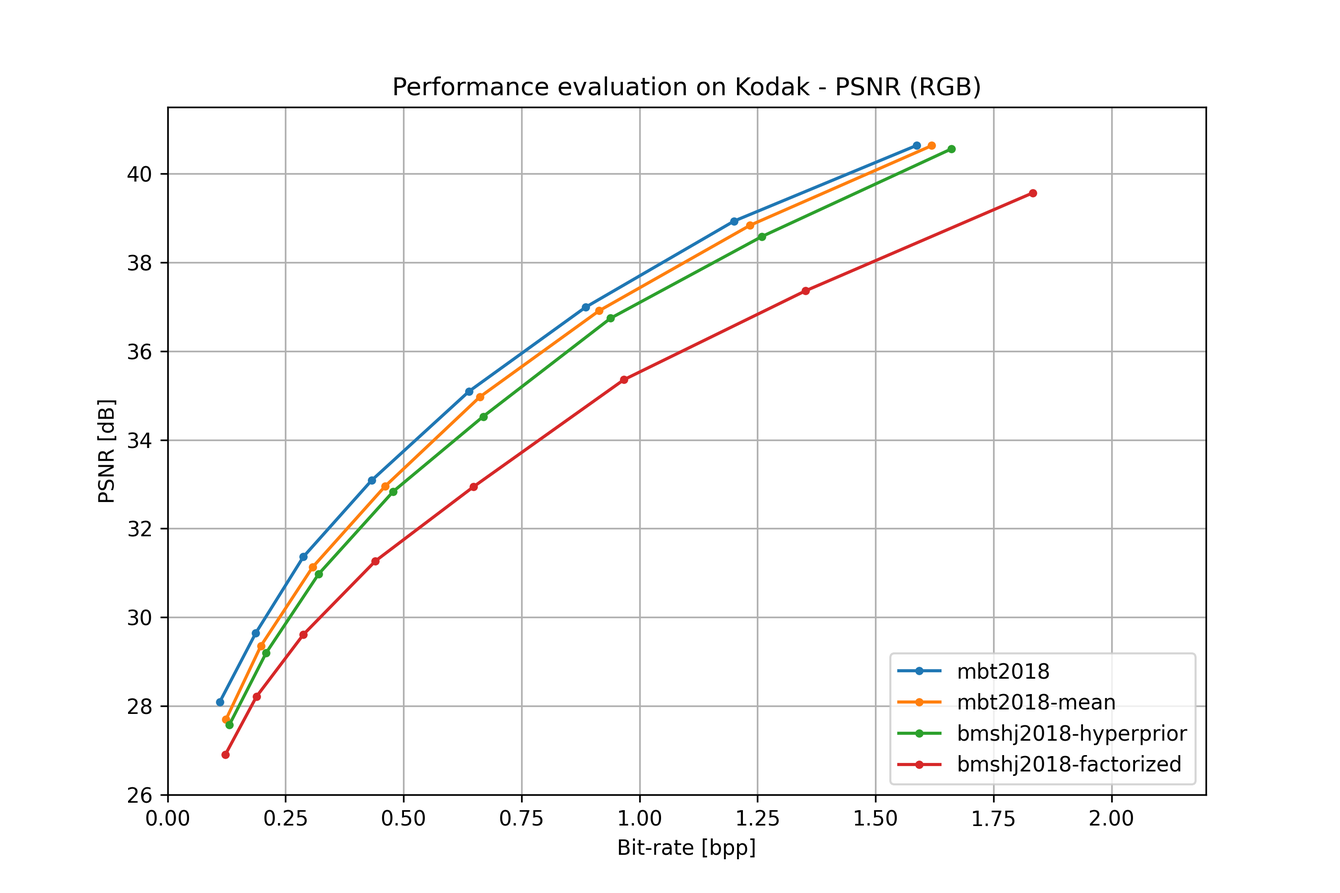
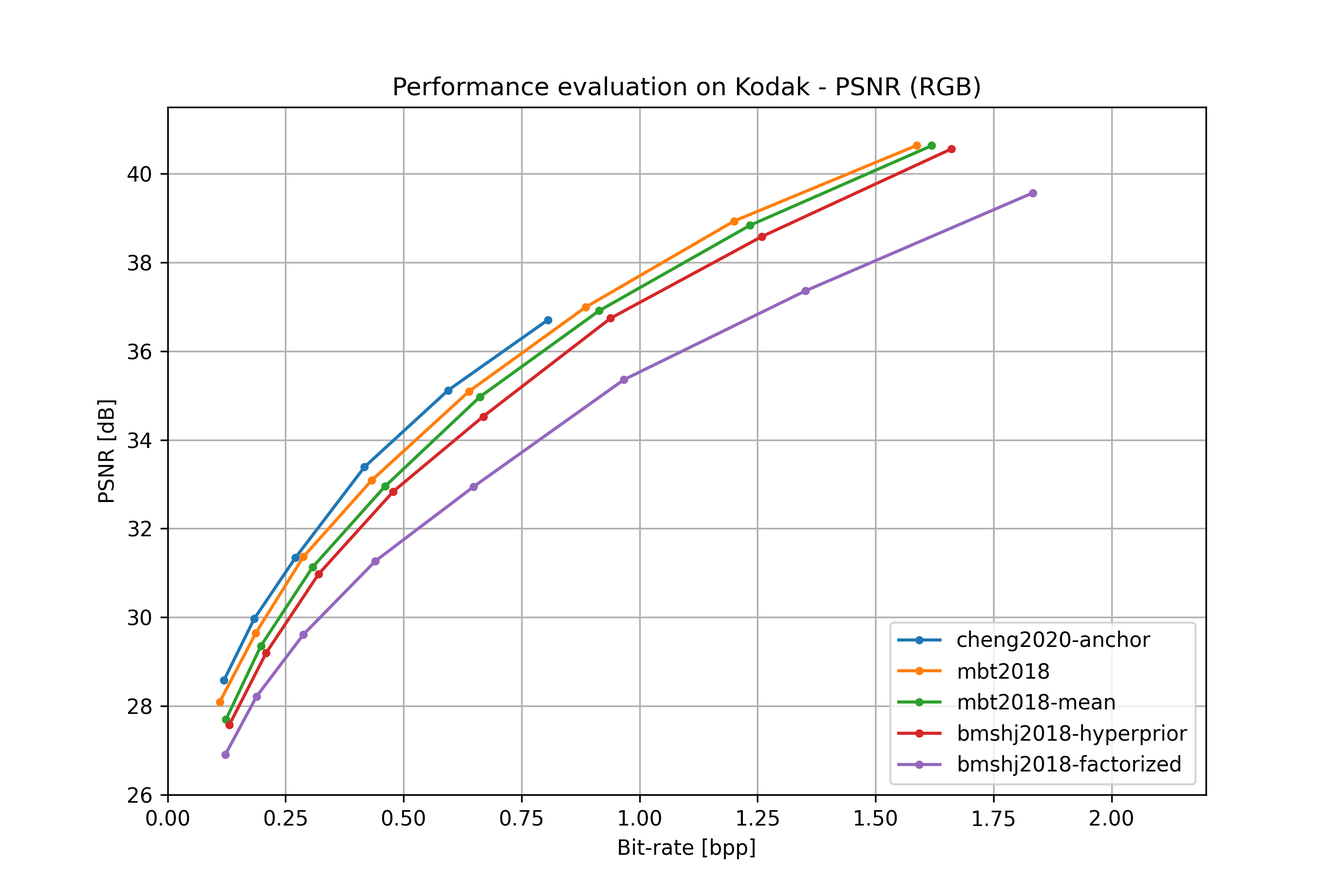
Update docs Fri Jul 17 14:32:21 PDT 2020

diff --git a/searchindex.js b/searchindex.js
@@ -1,1 +1,1 @@
-Search.setIndex({docnames:["ans","cli_usage","compressai","datasets","entropy_models","index","layers","models","ops","tutorial_installation","tutorial_intro","tutorial_train","zoo"],envversion:{"sphinx.domains.c":2,"sphinx.domains.changeset":1,"sphinx.domains.citation":1,"sphinx.domains.cpp":2,"sphinx.domains.index":1,"sphinx.domains.javascript":2,"sphinx.domains.math":2,"sphinx.domains.python":2,"sphinx.domains.rst":2,"sphinx.domains.std":1,"sphinx.ext.viewcode":1,sphinx:56},filenames:["ans.rst","cli_usage.rst","compressai.rst","datasets.rst","entropy_models.rst","index.rst","layers.rst","models.rst","ops.rst","tutorial_installation.rst","tutorial_intro.rst","tutorial_train.rst","zoo.rst"],objects:{"":{compressai:[2,0,0,"-"]},"compressai.ans":{RansDecoder:[0,1,1,""],RansEncoder:[0,1,1,""]},"compressai.datasets":{ImageFolder:[3,1,1,""]},"compressai.entropy_models":{EntropyBottleneck:[4,1,1,""],GaussianConditional:[4,1,1,""]},"compressai.layers":{AttentionBlock:[6,1,1,""],GDN1:[6,1,1,""],GDN:[6,1,1,""],MaskedConv2d:[6,1,1,""],ResidualBlock:[6,1,1,""],ResidualBlockUpsample:[6,1,1,""],ResidualBlockWithStride:[6,1,1,""]},"compressai.models":{Cheng2020Anchor:[7,1,1,""],Cheng2020Attention:[7,1,1,""],CompressionModel:[7,1,1,""],FactorizedPrior:[7,1,1,""],JointAutoregressiveHierarchicalPriors:[7,1,1,""],MeanScaleHyperprior:[7,1,1,""],ScaleHyperprior:[7,1,1,""]},"compressai.models.CompressionModel":{aux_loss:[7,3,1,""],aux_parameters:[7,3,1,""],forward:[7,3,1,""],parameters:[7,3,1,""],update:[7,3,1,""]},"compressai.models.FactorizedPrior":{forward:[7,3,1,""],from_state_dict:[7,3,1,""],load_state_dict:[7,3,1,""]},"compressai.models.JointAutoregressiveHierarchicalPriors":{forward:[7,3,1,""],from_state_dict:[7,3,1,""],load_state_dict:[7,3,1,""],update:[7,3,1,""]},"compressai.models.MeanScaleHyperprior":{forward:[7,3,1,""]},"compressai.models.ScaleHyperprior":{forward:[7,3,1,""],from_state_dict:[7,3,1,""],load_state_dict:[7,3,1,""],update:[7,3,1,""]},"compressai.ops":{LowerBound:[8,1,1,""],NonNegativeParametrizer:[8,1,1,""],ste_round:[8,2,1,""]},"compressai.zoo":{bmshj2018_factorized:[12,2,1,""],bmshj2018_hyperprior:[12,2,1,""],cheng2020_anchor:[12,2,1,""],cheng2020_attn:[12,2,1,""],mbt2018:[12,2,1,""],mbt2018_mean:[12,2,1,""]},compressai:{available_entropy_coders:[2,2,1,""],get_entropy_coder:[2,2,1,""],set_entropy_coder:[2,2,1,""]}},objnames:{"0":["py","module","Python module"],"1":["py","class","Python class"],"2":["py","function","Python function"],"3":["py","method","Python method"]},objtypes:{"0":"py:module","1":"py:class","2":"py:function","3":"py:method"},terms:{"1x1":7,"256x256":12,"3x3":[6,7],"6th":12,"814697265625e":8,"ball\u00e9":[4,6],"class":[0,3,4,6,7,8,11],"default":[1,2,6,7,11],"export":1,"final":11,"function":[3,7,8],"import":11,"int":[6,7,12],"new":[1,7],"return":[2,3,7,11,12],"super":11,"switch":12,"true":[7,11,12],"while":[7,11],ANS:11,And:11,Axes:1,For:[11,12],The:[8,10,11,12],Use:[1,2,6],Used:8,Useful:6,Uses:7,Using:6,With:11,__init__:11,abl:7,access:11,activ:[9,11],actual:[7,11],adam:11,adv:[7,12],advanc:12,after:[1,7,11],afterward:7,against:[1,10],aggreg:7,aim:10,all:[7,9],allow:10,also:[6,9],altern:11,although:7,anchor:[1,7,12],annual:12,ans:[1,5],api:5,appropri:[],approxim:[8,12],april:12,arch:11,architectur:[1,11,12],arg:[4,6,7],argument:[1,6],ariel:6,art:12,articl:12,asymmetr:[0,11],attent:[6,7,12],attn:1,author:12,auto:[6,7,11],autoencod:[8,11],autoregress:[7,12],aux_loss:[7,11],aux_optim:11,aux_paramet:[7,11],auxiliari:[7,11],avail:[2,10,12],available_entropy_cod:[2,11],axes:1,backend:1,backward:11,baian:12,balanc:11,ball:[6,7,12],ballemshj18:12,bar:12,base:[0,7,9,10,11,12],batch:12,bdist_wheel:9,been:11,befor:11,behavior:12,bench:5,bengio:12,beta:6,beta_min:6,better:11,between:[1,11,12],bianchi:12,bin:9,bind:0,bit:[2,10,11],bitrat:11,block:[6,7],bmshj2018:1,booktitl:12,bool:[7,12],both:11,bottleneck:[4,7,11],bound:8,bpg:[],bpp:1,bpp_loss:11,buffer:[1,7,11],build:[6,11],built:10,cach:12,call:[1,7,11],callabl:3,can:[0,1,9,11,12],canada:12,care:7,cdf:[1,7,11],cesa:12,chang:[1,11],channel:[4,6,7,11,12],check:11,checkpoint:[1,11],chen:12,cheng2020:[1,12],cheng2020imag:12,cheng:[6,7,12],choos:12,citat:12,clang:9,classic:10,classmethod:7,clone:9,closest:1,code:1,codec:[1,10],coder:[0,1,2,7,11],collect:1,com:9,command:[5,9],compar:10,comparison:1,compil:9,complet:11,compon:6,compress:[1,4,5,6,7,8,10,11],compressai:[1,9,10,11,12],compressionmodel:11,comput:[7,8,11,12],computation:6,condit:[4,6,7,11,12],conf:[7,12],confer:12,construct:[7,12],contain:7,contribut:10,conv2d:[6,11],conv:11,convolut:[6,7,11,12],convtranspose2d:11,copi:7,crop:12,cumul:11,current:[6,12],curv:1,custom:[8,9,10],cvpr:12,cxx:9,data:[10,12],databas:3,dataset:[1,5,12],david:12,decemb:12,decod:[6,7,11],decompress:11,deconv:11,deconvolut:[11,12],deep:[10,11],def:11,defin:7,densiti:[6,11],depend:12,deriv:8,descend:7,detach:8,detail:[11,12],dev:9,develop:9,dict:7,differ:[10,12],differenti:11,dimens:[11,12],dir:[1,9],directori:[1,3,12],discret:[6,7,12],disk:1,displai:[1,12],dist:9,distort:[1,10,11],distribut:11,divid:12,divis:6,doc:9,document:[4,10,11,12],domain:10,donglai:12,download:12,dure:[8,11],eban:6,editor:12,eero:6,effici:6,elad:6,element:11,encod:[2,7,11],end:[1,5,10,11,12],enforc:7,enhanc:12,entropi:[1,2,4,7],entropy_bottleneck:11,entropy_bottleneck_channel:7,entropy_cod:2,entropy_model:[5,11],entropybottleneck:11,environ:[],epoch:12,error:[11,12],estim:[1,11],eval:12,eval_model:5,evalu:[1,5,7,10,11,12],everi:7,exactli:7,exampl:[1,11,12],exit:1,expans:7,expect:[10,12],explan:11,extract:12,fabian:0,factor:[1,6,7],fals:[6,7,12],field:7,figsiz:1,figur:1,file:1,filepath:1,filter:4,find:1,find_clos:5,fine:12,first:6,flow:12,folder:[3,11],follow:[6,9],forc:7,former:7,forward:[7,11],frac:6,freeman:12,from:[0,6,7,9,11,12],from_state_dict:7,futur:[6,9,10,12],gamma:6,gamma_init:6,garnett:12,gaussian:[4,6,7,12],gcc:9,gdn:11,gener:6,georg:12,get:11,get_entropy_cod:2,giesen:0,git:9,github:[0,9],given:1,going:11,good:11,gordon:6,gpu:12,gradient:8,grauman:12,grow:10,handl:11,hanna:12,has:11,hash:1,have:12,height:1,help:[1,11],helper:11,heme:[6,7,12],hevc:11,hierarch:[7,12],highest:12,highlight:[],hook:7,html:[],http:9,hugo:12,hwang:[4,7,12],hyperprior:[1,4,7,11],iclr:[7,12],ident:8,ieee:12,ignor:7,ijcv:12,imag:[1,3,4,5,6,7,8,9,10,11],img000:3,img001:3,implement:[0,4,6,8,10,11],in_ch:6,in_channel:6,includ:[10,11],increas:11,index:5,inform:[7,12],inherit:6,init_scal:4,init_weight:7,initi:12,inproceed:12,input:[6,12],instal:5,instanc:[7,11,12],instead:[7,9],interdigitalinc:9,intern:[1,11,12],introduc:[4,6],introduct:[4,5],invers:[6,11],isol:9,iter:7,its:[7,12],jarhp:1,jiajun:12,jin:12,jiro:[6,7,12],johann:[6,12],johnston:[4,6,7,12],joint:[7,12],journal:12,jpeg2000:[],jpeg:[1,11],katto:[6,7,12],kei:7,kept:8,kernel_s:11,kristen:12,kwarg:[4,6,7,12],lambda:11,laparra:6,larochel:12,last:[6,7],latent:11,later:[1,7,9],latter:7,layer:[4,5,7,10,11],learn:[6,7,10,11,12],least:[7,12],length:11,let:11,level:12,librari:[5,10],like:11,likelihood:[6,7,12],limit:1,line:5,link:0,lint:9,list:[2,7,10,11,12],lmbda:11,load:[1,3,12],load_state_dict:7,load_state_dict_from_url:1,load_url:[],log:11,loop:11,loss:[7,12],lossi:8,lower:8,lowest:12,machin:10,maco:9,mai:12,masaru:[6,7,12],mask:6,mask_typ:6,match:[1,7],math:11,mathcal:11,matplotlib:1,max:8,maxim:11,mbt2018:1,mean:[1,7,11],mechan:12,messag:1,method:11,metric:[1,10,12],might:[9,12],mini:[],minim:11,minimum:8,minnen:[4,7,12],minnenbt18:12,miss:7,missing_kei:7,mixtur:[6,7,12],mod:[],mode:[3,12],model:[1,5,6],model_checkpoint:11,model_zoo:[],modifi:11,modul:[5,6,7,11,12],montr:12,more:[10,12],move:8,mse:[1,12],mse_loss:11,msssim:[],multipl:11,must:[7,11],name:[1,2],namedtupl:7,need:[7,11],neg:8,net:[11,12],network:[6,11,12],neural:[6,7,12],neurip:[7,12],nick:[6,12],nicol:12,non:[7,8,12],none:[3,7],normal:[6,12],notebook:9,now:11,num_pixel:11,number:[6,7,11,12],numer:[0,11],numpi:9,obtain:11,offici:[10,12],onc:[7,11],one:[7,9,12],onli:[9,12],open:1,openreview:12,oper:[8,10,12],ops:5,optim:[11,12],option:[1,3,7,9,11],org:[],orient:12,origin:[0,4,11,12],other:12,otherwis:[8,12],our:11,out:11,out_ch:6,output:[1,6],output_pad:11,outsid:11,over:7,overridden:7,overwrit:7,pad:[11,12],page:12,paper:[4,11,12],paramet:[1,2,3,6,7,11,12],partial:10,pass:[7,12],patch:12,path:1,patienc:12,pattern:12,per:[],perform:[1,5,7,11],persist:7,pictur:1,pil:3,pixel:[6,7],pixelcnn:6,plan:9,plateau:12,platform:5,plot:5,png:[1,3],point:[10,11],port:10,posit:1,possibl:[2,11],power:12,pre:[10,11,12],prefix:1,pretrain:12,previou:7,prior:[1,7,12],proceed:12,process:[7,12],progress:12,project:9,provid:[9,10,11],psnr:[1,11],pth:11,publish:[1,12],python3:9,python:[1,11],pytorch:[5,8,10,12],qualiti:[1,11,12],quantiz:[11,12],ran:0,rand:11,randomli:12,rang:[0,11,12],rate:[1,10,11,12],reach:[1,12],recip:7,recognit:12,recommend:9,reconstruct:[1,11],reduc:11,regist:7,regress:6,rel:1,relat:[1,11],releas:12,reparam_offset:8,reparametr:8,replac:[0,8],repositori:9,represent:[7,11,12],requir:[1,11],research:[5,10],residu:[6,7],resourc:10,respect:3,result:1,rewrit:11,rgb:[11,12],roman:12,root:3,rootdir:3,round:8,run:[1,7,9,11],runnabl:11,ryg:0,same:6,sami:12,sampl:[3,7],saurabh:12,save:[1,11],scalar:11,scale:[1,4,7,11,12],scale_bound:4,scale_t:[4,7],scipi:9,scope:11,script:[10,11],section:10,see:[4,10,11,12],select:1,self:[6,7,11,12],separ:3,sequenti:11,set:[1,11],set_entropy_cod:[2,11],setup:9,shape:[11,12],should:[7,12],show:1,silent:7,simoncelli:6,simpl:[1,6,11],simpli:11,simplifi:[6,11],sinc:7,singh:[4,7,12],size:[1,11,12],small:7,some:[10,11],sourc:[2,3,4,6,7,8,9,11,12],spatial:11,specifi:[2,12],split:3,springer:12,sqrt:6,squar:[11,12],ssim:1,stabil:8,stabl:[],state:12,state_dict:7,std:[],stderr:12,step:[11,12],store:3,str:[7,12],stream:[2,11],strict:7,strictli:7,stride:[6,11,12],string:[2,3,11],sub:[6,7],subclass:7,sum:11,sum_j:6,sun:[6,7,12],sung:12,support:9,system:[0,7,9,11,12],tail_mass:4,take:[3,7,12],takeuchi:[6,7,12],tar:11,target:1,task:[10,12],tensor:[11,12],tensorflow:[4,10,11],term:11,test:[3,9],tfci:[],them:7,thi:[1,4,7,11,12],through:11,thu:11,tianfan:12,titl:[1,12],toderici:[7,12],top:10,torch:[8,9,11],torch_model_zoo:[],torchvis:9,toward:8,track:12,tradit:[0,1],train:[1,3,5,7,8,10],trainabl:11,transform:[3,6],transpos:11,tree:11,trick:8,tune:12,tutori:[5,9,11],two:[6,11,12],type:7,unexpect:7,unexpected_kei:7,unless:12,unseen:6,updat:[1,7],update_model:[5,11],upsampl:6,url:12,usag:5,use:[9,11,12],used:[0,2,11,12],uses:11,using:[11,12],usual:12,util:[1,5,11],val:3,valero:6,valu:[1,2,6,7],vancouv:12,variabl:11,variant:[6,7,12],variat:[4,7,11,12],venv:9,version:3,via:[1,11],video:[10,12],vime90k:12,vision:12,volum:12,vtm:[],wai:[],wallach:12,want:9,webp:1,week:12,wei:12,weight:12,were:12,when:[8,12],where:[],whether:7,which:[6,11],whl:9,width:1,william:12,within:7,write:11,x_hat:11,x_round:8,xmax:1,xmin:1,xue2019video:12,xue:12,y_hat:11,y_length:[],y_likelihood:11,year:12,yet:12,ymax:1,ymin:1,you:[9,11,12],your:11,zero:[7,8,12],zero_grad:11,zhengxu:[6,7,12],zoo:[5,12]},titles:["compressai.ans","Command line usage","compressai","compressai.datasets","compressai.entropy_models","CompressAI","compressai.layers","compressai.models","compressai.ops","Installation","Introduction","Training","Image compression"],titleterms:{"function":11,Using:9,all:12,ans:0,attentionblock:6,bench:1,bmshj2018:12,bmshj2018_factor:12,bmshj2018_hyperprior:12,build:9,cheng2020_anchor:12,cheng2020_attn:12,cheng2020anchor:7,cheng2020attent:7,code:11,command:1,compress:12,compressai:[0,2,3,4,5,6,7,8],compressionmodel:7,concept:10,content:12,custom:11,dataset:3,defin:11,docker:9,entropi:11,entropy_model:4,entropybottleneck:4,environ:9,eval_model:1,evalu:[],factor:12,factorizedprior:7,find_clos:1,gaussiancondit:4,gdn1:6,gdn:6,hyperprior:12,imag:12,imagefold:3,indic:5,instal:9,introduct:10,jointautoregressivehierarchicalprior:7,layer:6,line:1,loss:11,lowerbound:8,maskedconv2d:6,mbt2018:12,mbt2018_mean:12,mean:12,meanscalehyperprior:7,model:[7,10,11,12],nonnegativeparametr:8,ops:8,own:9,packag:9,perform:12,pip:9,plot:1,python:9,rangedecod:[],rangeencod:[],ransdecod:0,ransencod:0,requir:9,residualblock:6,residualblockupsampl:6,residualblockwithstrid:6,scalehyperprior:7,ste_round:8,tabl:[5,12],train:[11,12],updat:11,update_model:1,usag:1,virtual:9,your:9,zoo:10}})
+Search.setIndex({docnames:["ans","cli_usage","compressai","datasets","entropy_models","index","layers","models","ops","tutorial_installation","tutorial_intro","tutorial_train","zoo"],envversion:{"sphinx.domains.c":2,"sphinx.domains.changeset":1,"sphinx.domains.citation":1,"sphinx.domains.cpp":2,"sphinx.domains.index":1,"sphinx.domains.javascript":2,"sphinx.domains.math":2,"sphinx.domains.python":2,"sphinx.domains.rst":2,"sphinx.domains.std":1,"sphinx.ext.viewcode":1,sphinx:56},filenames:["ans.rst","cli_usage.rst","compressai.rst","datasets.rst","entropy_models.rst","index.rst","layers.rst","models.rst","ops.rst","tutorial_installation.rst","tutorial_intro.rst","tutorial_train.rst","zoo.rst"],objects:{"":{compressai:[2,0,0,"-"]},"compressai.ans":{RansDecoder:[0,1,1,""],RansEncoder:[0,1,1,""]},"compressai.datasets":{ImageFolder:[3,1,1,""]},"compressai.entropy_models":{EntropyBottleneck:[4,1,1,""],GaussianConditional:[4,1,1,""]},"compressai.layers":{AttentionBlock:[6,1,1,""],GDN1:[6,1,1,""],GDN:[6,1,1,""],MaskedConv2d:[6,1,1,""],ResidualBlock:[6,1,1,""],ResidualBlockUpsample:[6,1,1,""],ResidualBlockWithStride:[6,1,1,""]},"compressai.models":{Cheng2020Anchor:[7,1,1,""],Cheng2020Attention:[7,1,1,""],CompressionModel:[7,1,1,""],FactorizedPrior:[7,1,1,""],JointAutoregressiveHierarchicalPriors:[7,1,1,""],MeanScaleHyperprior:[7,1,1,""],ScaleHyperprior:[7,1,1,""]},"compressai.models.Cheng2020Anchor":{from_state_dict:[7,3,1,""]},"compressai.models.CompressionModel":{aux_loss:[7,3,1,""],aux_parameters:[7,3,1,""],forward:[7,3,1,""],parameters:[7,3,1,""],update:[7,3,1,""]},"compressai.models.FactorizedPrior":{forward:[7,3,1,""],from_state_dict:[7,3,1,""],load_state_dict:[7,3,1,""]},"compressai.models.JointAutoregressiveHierarchicalPriors":{forward:[7,3,1,""],from_state_dict:[7,3,1,""],load_state_dict:[7,3,1,""],update:[7,3,1,""]},"compressai.models.MeanScaleHyperprior":{forward:[7,3,1,""]},"compressai.models.ScaleHyperprior":{forward:[7,3,1,""],from_state_dict:[7,3,1,""],load_state_dict:[7,3,1,""],update:[7,3,1,""]},"compressai.ops":{LowerBound:[8,1,1,""],NonNegativeParametrizer:[8,1,1,""],ste_round:[8,2,1,""]},"compressai.zoo":{bmshj2018_factorized:[12,2,1,""],bmshj2018_hyperprior:[12,2,1,""],cheng2020_anchor:[12,2,1,""],cheng2020_attn:[12,2,1,""],mbt2018:[12,2,1,""],mbt2018_mean:[12,2,1,""]},compressai:{available_entropy_coders:[2,2,1,""],get_entropy_coder:[2,2,1,""],set_entropy_coder:[2,2,1,""]}},objnames:{"0":["py","module","Python module"],"1":["py","class","Python class"],"2":["py","function","Python function"],"3":["py","method","Python method"]},objtypes:{"0":"py:module","1":"py:class","2":"py:function","3":"py:method"},terms:{"1x1":7,"256x256":12,"3x3":[6,7],"6th":12,"814697265625e":8,"ball\u00e9":[4,6],"class":[0,3,4,6,7,8,11],"default":[1,2,6,7,11],"export":1,"final":11,"function":[3,7,8],"import":11,"int":[6,7,12],"new":[1,7],"return":[2,3,7,11,12],"super":11,"switch":12,"true":[7,11,12],"while":[7,11],ANS:11,And:11,Axes:1,For:[11,12],The:[8,10,11,12],Use:[1,2,6],Used:8,Useful:6,Uses:7,Using:6,With:11,__init__:11,abl:7,access:11,activ:[9,11],actual:[7,11],adam:11,adv:[7,12],advanc:12,after:[1,7,11],afterward:7,against:[1,10],aggreg:7,aim:10,all:[7,9],allow:10,also:[6,9],altern:11,although:7,anchor:[1,7,12],annual:12,ans:[1,5],api:5,approxim:[8,12],april:12,arch:11,architectur:[1,11,12],arg:[4,6,7],argument:[1,6],ariel:6,art:12,articl:12,asymmetr:[0,11],attent:[6,7,12],attn:1,author:12,auto:[6,7,11],autoencod:[8,11],autoregress:[7,12],aux_loss:[7,11],aux_optim:11,aux_paramet:[7,11],auxiliari:[7,11],avail:[2,10,12],available_entropy_cod:[2,11],axes:1,backend:1,backward:11,baian:12,balanc:11,ball:[6,7,12],ballemshj18:12,bar:12,base:[0,7,9,10,11,12],batch:12,bdist_wheel:9,been:11,befor:11,behavior:12,bench:5,bengio:12,beta:6,beta_min:6,better:11,between:[1,11,12],bianchi:12,bin:9,bind:0,bit:[2,10,11],bitrat:11,block:[6,7],bmshj2018:1,booktitl:12,bool:[7,12],both:11,bottleneck:[4,7,11],bound:8,bpp:1,bpp_loss:11,buffer:[1,7,11],build:[6,11],built:10,cach:12,call:[1,7,11],callabl:3,can:[0,1,9,11,12],canada:12,care:7,cdf:[1,7,11],cesa:12,chang:[1,11],channel:[4,6,7,11,12],check:11,checkpoint:[1,11],chen:12,cheng2020:[1,12],cheng2020imag:12,cheng:[6,7,12],choos:12,citat:12,clang:9,classic:10,classmethod:7,clone:9,closest:1,code:1,codec:[1,10],coder:[0,1,2,7,11],collect:1,com:9,command:[5,9],compar:10,comparison:1,compil:9,complet:11,compon:6,compress:[1,4,5,6,7,8,10,11],compressai:[1,9,10,11,12],compressionmodel:11,comput:[7,8,11,12],computation:6,condit:[4,6,7,11,12],conf:[7,12],confer:12,construct:[7,12],contain:7,contribut:10,conv2d:[6,11],conv:11,convolut:[6,7,11,12],convtranspose2d:11,copi:7,crop:12,cumul:11,current:[6,12],curv:1,custom:[8,9,10],cvpr:12,cxx:9,data:[10,12],databas:3,dataset:[1,5,12],david:12,decemb:12,decod:[6,7,11],decompress:11,deconv:11,deconvolut:[11,12],deep:[10,11],def:11,defin:7,densiti:[6,11],depend:12,deriv:8,descend:7,detach:8,detail:[11,12],dev:9,develop:9,dict:7,differ:[10,12],differenti:11,dimens:[11,12],dir:[1,9],directori:[1,3,12],discret:[6,7,12],disk:1,displai:[1,12],dist:9,distort:[1,10,11],distribut:11,divid:12,divis:6,doc:9,document:[4,10,11,12],domain:10,donglai:12,download:12,dure:[8,11],eban:6,editor:12,eero:6,effici:6,elad:6,element:11,encod:[2,7,11],end:[1,5,10,11,12],enforc:7,enhanc:12,entropi:[1,2,4,7],entropy_bottleneck:11,entropy_bottleneck_channel:7,entropy_cod:2,entropy_model:[5,11],entropybottleneck:11,epoch:12,error:[11,12],estim:[1,11],eval:12,eval_model:5,evalu:[1,5,7,10,11,12],everi:7,exactli:7,exampl:[1,11,12],exit:1,expans:7,expect:[10,12],explan:11,extract:12,fabian:0,factor:[1,6,7],fals:[6,7,12],field:7,figsiz:1,figur:1,file:1,filepath:1,filter:4,find:1,find_clos:5,fine:12,first:6,flow:12,folder:[3,11],follow:[6,9],forc:7,former:7,forward:[7,11],frac:6,freeman:12,from:[0,6,7,9,11,12],from_state_dict:7,futur:[6,9,10,12],gamma:6,gamma_init:6,garnett:12,gaussian:[4,6,7,12],gcc:9,gdn:11,gener:6,georg:12,get:11,get_entropy_cod:2,giesen:0,git:9,github:[0,9],given:1,going:11,good:11,gordon:6,gpu:12,gradient:8,grauman:12,grow:10,handl:11,hanna:12,has:11,hash:1,have:12,height:1,help:[1,11],helper:11,heme:[6,7,12],hevc:11,hierarch:[7,12],highest:12,hook:7,http:9,hugo:12,hwang:[4,7,12],hyperprior:[1,4,7,11],iclr:[7,12],ident:8,ieee:12,ignor:7,ijcv:12,imag:[1,3,4,5,6,7,8,9,10,11],img000:3,img001:3,implement:[0,4,6,8,10,11],in_ch:6,in_channel:6,includ:[10,11],increas:11,index:5,inform:[7,12],inherit:6,init_scal:4,init_weight:7,initi:12,inproceed:12,input:[6,12],instal:5,instanc:[7,11,12],instead:[7,9],interdigitalinc:9,intern:[1,11,12],introduc:[4,6],introduct:[4,5],invers:[6,11],isol:9,iter:7,its:[7,12],jarhp:1,jiajun:12,jin:12,jiro:[6,7,12],johann:[6,12],johnston:[4,6,7,12],joint:[7,12],journal:12,jpeg:[1,11],katto:[6,7,12],kei:7,kept:8,kernel_s:11,kristen:12,kwarg:[4,6,7,12],lambda:11,laparra:6,larochel:12,last:[6,7],latent:11,later:[1,7,9],latter:7,layer:[4,5,7,10,11],learn:[6,7,10,11,12],least:[7,12],length:11,let:11,level:12,librari:[5,10],like:11,likelihood:[6,7,12],limit:1,line:5,link:0,lint:9,list:[2,7,10,11,12],lmbda:11,load:[1,3,12],load_state_dict:7,load_state_dict_from_url:1,log:11,loop:11,loss:[7,12],lossi:8,lower:8,lowest:12,machin:10,maco:9,mai:12,masaru:[6,7,12],mask:6,mask_typ:6,match:[1,7],math:11,mathcal:11,matplotlib:1,max:8,maxim:11,mbt2018:1,mean:[1,7,11],mechan:12,messag:1,method:11,metric:[1,10,12],might:[9,12],minim:11,minimum:8,minnen:[4,7,12],minnenbt18:12,miss:7,missing_kei:7,mixtur:[6,7,12],mode:[3,12],model:[1,5,6],model_checkpoint:11,modifi:11,modul:[5,6,7,11,12],montr:12,more:[10,12],move:8,mse:[1,12],mse_loss:11,multipl:11,must:[7,11],name:[1,2],namedtupl:7,need:[7,11],neg:8,net:[11,12],network:[6,11,12],neural:[6,7,12],neurip:[7,12],nick:[6,12],nicol:12,non:[7,8,12],none:[3,7],normal:[6,12],notebook:9,now:11,num_pixel:11,number:[6,7,11,12],numer:[0,11],numpi:9,obtain:11,offici:[10,12],onc:[7,11],one:[7,9,12],onli:[9,12],open:1,openreview:12,oper:[8,10,12],ops:5,optim:[11,12],option:[1,3,7,9,11],orient:12,origin:[0,4,11,12],other:12,otherwis:[8,12],our:11,out:11,out_ch:6,output:[1,6],output_pad:11,outsid:11,over:7,overridden:7,overwrit:7,pad:[11,12],page:12,paper:[4,11,12],paramet:[1,2,3,6,7,11,12],partial:10,pass:[7,12],patch:12,path:1,patienc:12,pattern:12,perform:[1,5,7,11],persist:7,pictur:1,pil:3,pixel:[6,7],pixelcnn:6,plan:9,plateau:12,platform:5,plot:5,png:[1,3],point:[10,11],port:10,posit:1,possibl:[2,11],power:12,pre:[10,11,12],prefix:1,pretrain:12,previou:7,prior:[1,7,12],proceed:12,process:[7,12],progress:12,project:9,provid:[9,10,11],psnr:[1,11],pth:11,publish:[1,12],python3:9,python:[1,11],pytorch:[5,8,10,12],qualiti:[1,11,12],quantiz:[11,12],ran:0,rand:11,randomli:12,rang:[0,11,12],rate:[1,10,11,12],reach:[1,12],recip:7,recognit:12,recommend:9,reconstruct:[1,11],reduc:11,regist:7,regress:6,rel:1,relat:[1,11],releas:12,reparam_offset:8,reparametr:8,replac:[0,8],repositori:9,represent:[7,11,12],requir:[1,11],research:[5,10],residu:[6,7],resourc:10,respect:3,result:1,rewrit:11,rgb:[11,12],roman:12,root:3,rootdir:3,round:8,run:[1,7,9,11],runnabl:11,ryg:0,same:6,sami:12,sampl:[3,7],saurabh:12,save:[1,11],scalar:11,scale:[1,4,7,11,12],scale_bound:4,scale_t:[4,7],scipi:9,scope:11,script:[10,11],section:10,see:[4,10,11,12],select:1,self:[6,7,11,12],separ:3,sequenti:11,set:[1,11],set_entropy_cod:[2,11],setup:9,shape:[11,12],should:[7,12],show:1,silent:7,simoncelli:6,simpl:[1,6,11],simpli:11,simplifi:[6,11],sinc:7,singh:[4,7,12],size:[1,11,12],small:7,some:[10,11],sourc:[2,3,4,6,7,8,9,11,12],spatial:11,specifi:[2,12],split:3,springer:12,sqrt:6,squar:[11,12],ssim:1,stabil:8,state:12,state_dict:7,stderr:12,step:[11,12],store:3,str:[7,12],stream:[2,11],strict:7,strictli:7,stride:[6,11,12],string:[2,3,11],sub:[6,7],subclass:7,sum:11,sum_j:6,sun:[6,7,12],sung:12,support:9,system:[0,7,9,11,12],tail_mass:4,take:[3,7,12],takeuchi:[6,7,12],tar:11,target:1,task:[10,12],tensor:[11,12],tensorflow:[4,10,11],term:11,test:[3,9],them:7,thi:[1,4,7,11,12],through:11,thu:11,tianfan:12,titl:[1,12],toderici:[7,12],top:10,torch:[8,9,11],torchvis:9,toward:8,track:12,tradit:[0,1],train:[1,3,5,7,8,10],trainabl:11,transform:[3,6],transpos:11,tree:11,trick:8,tune:12,tutori:[5,9,11],two:[6,11,12],type:7,unexpect:7,unexpected_kei:7,unless:12,unseen:6,updat:[1,7],update_model:[5,11],upsampl:6,url:12,usag:5,use:[9,11,12],used:[0,2,11,12],uses:11,using:[11,12],usual:12,util:[1,5,11],val:3,valero:6,valu:[1,2,6,7],vancouv:12,variabl:11,variant:[6,7,12],variat:[4,7,11,12],venv:9,version:3,via:[1,11],video:[10,12],vime90k:12,vision:12,volum:12,wallach:12,want:9,webp:1,week:12,wei:12,weight:12,were:12,when:[8,12],whether:7,which:[6,11],whl:9,width:1,william:12,within:7,write:11,x_hat:11,x_round:8,xmax:1,xmin:1,xue2019video:12,xue:12,y_hat:11,y_likelihood:11,year:12,yet:12,ymax:1,ymin:1,you:[9,11,12],your:11,zero:[7,8,12],zero_grad:11,zhengxu:[6,7,12],zoo:[5,12]},titles:["compressai.ans","Command line usage","compressai","compressai.datasets","compressai.entropy_models","CompressAI","compressai.layers","compressai.models","compressai.ops","Installation","Introduction","Training","Image compression"],titleterms:{"function":11,Using:9,all:12,ans:0,attentionblock:6,bench:1,bmshj2018:12,bmshj2018_factor:12,bmshj2018_hyperprior:12,build:9,cheng2020_anchor:12,cheng2020_attn:12,cheng2020anchor:7,cheng2020attent:7,code:11,command:1,compress:12,compressai:[0,2,3,4,5,6,7,8],compressionmodel:7,concept:10,content:12,custom:11,dataset:3,defin:11,docker:9,entropi:11,entropy_model:4,entropybottleneck:4,environ:9,eval_model:1,factor:12,factorizedprior:7,find_clos:1,gaussiancondit:4,gdn1:6,gdn:6,hyperprior:12,imag:12,imagefold:3,indic:5,instal:9,introduct:10,jointautoregressivehierarchicalprior:7,layer:6,line:1,loss:11,lowerbound:8,maskedconv2d:6,mbt2018:12,mbt2018_mean:12,mean:12,meanscalehyperprior:7,model:[7,10,11,12],nonnegativeparametr:8,ops:8,own:9,packag:9,perform:12,pip:9,plot:1,python:9,ransdecod:0,ransencod:0,requir:9,residualblock:6,residualblockupsampl:6,residualblockwithstrid:6,scalehyperprior:7,ste_round:8,tabl:[5,12],train:[11,12],updat:11,update_model:1,usag:1,virtual:9,your:9,zoo:10}})

diff --git a/_modules/compressai/models/priors.html b/_modules/compressai/models/priors.html
@@ -688,27 +688,33 @@
             <span class="n">encoder</span> <span class="o">=</span> <span class="n">BufferedRansEncoder</span><span class="p">()</span>
             <span class="c1"># Warning, this is slow...</span>
             <span class="c1"># TODO: profile the calls to the bindings...</span>
+            <span class="n">symbols_list</span> <span class="o">=</span> <span class="p">[]</span>
+            <span class="n">indexes_list</span> <span class="o">=</span> <span class="p">[]</span>
             <span class="k">for</span> <span class="n">h</span> <span class="ow">in</span> <span class="nb">range</span><span class="p">(</span><span class="n">y_height</span><span class="p">):</span>
                 <span class="k">for</span> <span class="n">w</span> <span class="ow">in</span> <span class="nb">range</span><span class="p">(</span><span class="n">y_width</span><span class="p">):</span>
-                    <span class="n">y_crop</span> <span class="o">=</span> <span class="n">y_hat</span><span class="p">[</span><span class="n">i</span><span class="p">:</span><span class="n">i</span> <span class="o">+</span> <span class="mi">1</span><span class="p">,</span> <span class="p">:,</span> <span class="n">h</span><span class="p">:</span><span class="n">h</span> <span class="o">+</span> <span class="n">kernel_size</span><span class="p">,</span> <span class="n">w</span><span class="p">:</span><span class="n">w</span> <span class="o">+</span> <span class="n">kernel_size</span><span class="p">]</span>
-                    <span class="n">ctx_params</span> <span class="o">=</span> <span class="bp">self</span><span class="o">.</span><span class="n">context_prediction</span><span class="p">(</span><span class="n">y_crop</span><span class="p">)</span>
+                    <span class="n">y_crop</span> <span class="o">=</span> <span class="n">y_hat</span><span class="p">[</span><span class="n">i</span><span class="p">:</span><span class="n">i</span> <span class="o">+</span> <span class="mi">1</span><span class="p">,</span> <span class="p">:,</span> <span class="n">h</span><span class="p">:</span><span class="n">h</span> <span class="o">+</span> <span class="n">kernel_size</span><span class="p">,</span>
+                                   <span class="n">w</span><span class="p">:</span><span class="n">w</span> <span class="o">+</span> <span class="n">kernel_size</span><span class="p">]</span>
+                    <span class="n">ctx_p</span> <span class="o">=</span> <span class="n">F</span><span class="o">.</span><span class="n">conv2d</span><span class="p">(</span><span class="n">y_crop</span><span class="p">,</span>
+                                     <span class="bp">self</span><span class="o">.</span><span class="n">context_prediction</span><span class="o">.</span><span class="n">weight</span><span class="p">,</span>
+                                     <span class="n">bias</span><span class="o">=</span><span class="bp">self</span><span class="o">.</span><span class="n">context_prediction</span><span class="o">.</span><span class="n">bias</span><span class="p">)</span>
 
                     <span class="c1"># 1x1 conv for the entropy parameters prediction network, so</span>
                     <span class="c1"># we only keep the elements in the &quot;center&quot;</span>
-                    <span class="n">ctx_p</span> <span class="o">=</span> <span class="n">ctx_params</span><span class="p">[</span><span class="n">i</span><span class="p">:</span><span class="n">i</span> <span class="o">+</span> <span class="mi">1</span><span class="p">,</span> <span class="p">:,</span> <span class="n">padding</span><span class="p">:</span><span class="n">padding</span> <span class="o">+</span> <span class="mi">1</span><span class="p">,</span> <span class="n">padding</span><span class="p">:</span><span class="n">padding</span> <span class="o">+</span> <span class="mi">1</span><span class="p">]</span>
                     <span class="n">p</span> <span class="o">=</span> <span class="n">params</span><span class="p">[</span><span class="n">i</span><span class="p">:</span><span class="n">i</span> <span class="o">+</span> <span class="mi">1</span><span class="p">,</span> <span class="p">:,</span> <span class="n">h</span><span class="p">:</span><span class="n">h</span> <span class="o">+</span> <span class="mi">1</span><span class="p">,</span> <span class="n">w</span><span class="p">:</span><span class="n">w</span> <span class="o">+</span> <span class="mi">1</span><span class="p">]</span>
-                    <span class="n">gaussian_params</span> <span class="o">=</span> <span class="bp">self</span><span class="o">.</span><span class="n">entropy_parameters</span><span class="p">(</span><span class="n">torch</span><span class="o">.</span><span class="n">cat</span><span class="p">((</span><span class="n">p</span><span class="p">,</span> <span class="n">ctx_p</span><span class="p">),</span> <span class="n">dim</span><span class="o">=</span><span class="mi">1</span><span class="p">))</span>
+                    <span class="n">gaussian_params</span> <span class="o">=</span> <span class="bp">self</span><span class="o">.</span><span class="n">entropy_parameters</span><span class="p">(</span>
+                        <span class="n">torch</span><span class="o">.</span><span class="n">cat</span><span class="p">((</span><span class="n">p</span><span class="p">,</span> <span class="n">ctx_p</span><span class="p">),</span> <span class="n">dim</span><span class="o">=</span><span class="mi">1</span><span class="p">))</span>
                     <span class="n">scales_hat</span><span class="p">,</span> <span class="n">means_hat</span> <span class="o">=</span> <span class="n">gaussian_params</span><span class="o">.</span><span class="n">chunk</span><span class="p">(</span><span class="mi">2</span><span class="p">,</span> <span class="mi">1</span><span class="p">)</span>
 
                     <span class="n">indexes</span> <span class="o">=</span> <span class="bp">self</span><span class="o">.</span><span class="n">gaussian_conditional</span><span class="o">.</span><span class="n">build_indexes</span><span class="p">(</span><span class="n">scales_hat</span><span class="p">)</span>
                     <span class="n">y_q</span> <span class="o">=</span> <span class="n">torch</span><span class="o">.</span><span class="n">round</span><span class="p">(</span><span class="n">y_crop</span> <span class="o">-</span> <span class="n">means_hat</span><span class="p">)</span>
                     <span class="n">y_hat</span><span class="p">[</span><span class="n">i</span><span class="p">,</span> <span class="p">:,</span> <span class="n">h</span> <span class="o">+</span> <span class="n">padding</span><span class="p">,</span> <span class="n">w</span> <span class="o">+</span> <span class="n">padding</span><span class="p">]</span> <span class="o">=</span> <span class="p">(</span><span class="n">y_q</span> <span class="o">+</span> <span class="n">means_hat</span><span class="p">)[</span><span class="n">i</span><span class="p">,</span> <span class="p">:,</span> <span class="n">padding</span><span class="p">,</span> <span class="n">padding</span><span class="p">]</span>
-                    <span class="n">encoder</span><span class="o">.</span><span class="n">encode_with_indexes</span><span class="p">(</span>
-                        <span class="n">y_q</span><span class="p">[</span><span class="n">i</span><span class="p">,</span> <span class="p">:,</span> <span class="n">padding</span><span class="p">,</span> <span class="n">padding</span><span class="p">]</span><span class="o">.</span><span class="n">int</span><span class="p">()</span><span class="o">.</span><span class="n">tolist</span><span class="p">(),</span>
-                        <span class="n">indexes</span><span class="p">[</span><span class="n">i</span><span class="p">,</span> <span class="p">:]</span><span class="o">.</span><span class="n">squeeze</span><span class="p">()</span><span class="o">.</span><span class="n">int</span><span class="p">()</span><span class="o">.</span><span class="n">tolist</span><span class="p">(),</span>
-                        <span class="n">cdf</span><span class="p">,</span>
-                        <span class="n">cdf_lengths</span><span class="p">,</span>
-                        <span class="n">offsets</span><span class="p">)</span>
+
+                    <span class="n">symbols_list</span><span class="o">.</span><span class="n">extend</span><span class="p">(</span><span class="n">y_q</span><span class="p">[</span><span class="n">i</span><span class="p">,</span> <span class="p">:,</span> <span class="n">padding</span><span class="p">,</span> <span class="n">padding</span><span class="p">]</span><span class="o">.</span><span class="n">int</span><span class="p">()</span><span class="o">.</span><span class="n">tolist</span><span class="p">())</span>
+                    <span class="n">indexes_list</span><span class="o">.</span><span class="n">extend</span><span class="p">(</span><span class="n">indexes</span><span class="p">[</span><span class="n">i</span><span class="p">,</span> <span class="p">:]</span><span class="o">.</span><span class="n">squeeze</span><span class="p">()</span><span class="o">.</span><span class="n">int</span><span class="p">()</span><span class="o">.</span><span class="n">tolist</span><span class="p">())</span>
+
+            <span class="n">encoder</span><span class="o">.</span><span class="n">encode_with_indexes</span><span class="p">(</span><span class="n">symbols_list</span><span class="p">,</span> <span class="n">indexes_list</span><span class="p">,</span> <span class="n">cdf</span><span class="p">,</span>
+                                        <span class="n">cdf_lengths</span><span class="p">,</span> <span class="n">offsets</span><span class="p">)</span>
+
             <span class="n">string</span> <span class="o">=</span> <span class="n">encoder</span><span class="o">.</span><span class="n">flush</span><span class="p">()</span>
             <span class="n">y_strings</span><span class="o">.</span><span class="n">append</span><span class="p">(</span><span class="n">string</span><span class="p">)</span>
         <span class="c1"># yapf: disable</span>
@@ -753,12 +759,11 @@
                     <span class="c1"># only perform the 5x5 convolution on a cropped tensor</span>
                     <span class="c1"># centered in (h, w)</span>
                     <span class="n">y_crop</span> <span class="o">=</span> <span class="n">y_hat</span><span class="p">[</span><span class="n">i</span><span class="p">:</span><span class="n">i</span> <span class="o">+</span> <span class="mi">1</span><span class="p">,</span> <span class="p">:,</span> <span class="n">h</span><span class="p">:</span><span class="n">h</span> <span class="o">+</span> <span class="n">kernel_size</span><span class="p">,</span> <span class="n">w</span><span class="p">:</span><span class="n">w</span> <span class="o">+</span> <span class="n">kernel_size</span><span class="p">]</span>
-                    <span class="c1"># ctx_params = self.context_prediction(torch.round(y_crop))</span>
-                    <span class="n">ctx_params</span> <span class="o">=</span> <span class="bp">self</span><span class="o">.</span><span class="n">context_prediction</span><span class="p">(</span><span class="n">y_crop</span><span class="p">)</span>
-
+                    <span class="n">ctx_p</span> <span class="o">=</span> <span class="n">F</span><span class="o">.</span><span class="n">conv2d</span><span class="p">(</span><span class="n">y_crop</span><span class="p">,</span>
+                                     <span class="bp">self</span><span class="o">.</span><span class="n">context_prediction</span><span class="o">.</span><span class="n">weight</span><span class="p">,</span>
+                                     <span class="n">bias</span><span class="o">=</span><span class="bp">self</span><span class="o">.</span><span class="n">context_prediction</span><span class="o">.</span><span class="n">bias</span><span class="p">)</span>
                     <span class="c1"># 1x1 conv for the entropy parameters prediction network, so</span>
                     <span class="c1"># we only keep the elements in the &quot;center&quot;</span>
-                    <span class="n">ctx_p</span> <span class="o">=</span> <span class="n">ctx_params</span><span class="p">[</span><span class="n">i</span><span class="p">:</span><span class="n">i</span> <span class="o">+</span> <span class="mi">1</span><span class="p">,</span> <span class="p">:,</span> <span class="n">padding</span><span class="p">:</span><span class="n">padding</span> <span class="o">+</span> <span class="mi">1</span><span class="p">,</span> <span class="n">padding</span><span class="p">:</span><span class="n">padding</span> <span class="o">+</span> <span class="mi">1</span><span class="p">]</span>
                     <span class="n">p</span> <span class="o">=</span> <span class="n">params</span><span class="p">[</span><span class="n">i</span><span class="p">:</span><span class="n">i</span> <span class="o">+</span> <span class="mi">1</span><span class="p">,</span> <span class="p">:,</span> <span class="n">h</span><span class="p">:</span><span class="n">h</span> <span class="o">+</span> <span class="mi">1</span><span class="p">,</span> <span class="n">w</span><span class="p">:</span><span class="n">w</span> <span class="o">+</span> <span class="mi">1</span><span class="p">]</span>
                     <span class="n">gaussian_params</span> <span class="o">=</span> <span class="bp">self</span><span class="o">.</span><span class="n">entropy_parameters</span><span class="p">(</span><span class="n">torch</span><span class="o">.</span><span class="n">cat</span><span class="p">((</span><span class="n">p</span><span class="p">,</span> <span class="n">ctx_p</span><span class="p">),</span> <span class="n">dim</span><span class="o">=</span><span class="mi">1</span><span class="p">))</span>
                     <span class="n">scales_hat</span><span class="p">,</span> <span class="n">means_hat</span> <span class="o">=</span> <span class="n">gaussian_params</span><span class="o">.</span><span class="n">chunk</span><span class="p">(</span><span class="mi">2</span><span class="p">,</span> <span class="mi">1</span><span class="p">)</span>

diff --git a/_modules/compressai/zoo/image.html b/_modules/compressai/zoo/image.html
@@ -260,7 +260,14 @@
         <span class="p">},</span>
     <span class="p">},</span>
     <span class="s1">&#39;cheng2020-anchor&#39;</span><span class="p">:</span> <span class="p">{</span>
-        <span class="s1">&#39;mse&#39;</span><span class="p">:</span> <span class="p">{},</span>
+        <span class="s1">&#39;mse&#39;</span><span class="p">:</span> <span class="p">{</span>
+            <span class="mi">1</span><span class="p">:</span> <span class="sa">f</span><span class="s1">&#39;</span><span class="si">{</span><span class="n">root_url</span><span class="si">}</span><span class="s1">/cheng2020-anchor-1-dad2ebff.pth.tar&#39;</span><span class="p">,</span>
+            <span class="mi">2</span><span class="p">:</span> <span class="sa">f</span><span class="s1">&#39;</span><span class="si">{</span><span class="n">root_url</span><span class="si">}</span><span class="s1">/cheng2020-anchor-2-a29008eb.pth.tar&#39;</span><span class="p">,</span>
+            <span class="mi">3</span><span class="p">:</span> <span class="sa">f</span><span class="s1">&#39;</span><span class="si">{</span><span class="n">root_url</span><span class="si">}</span><span class="s1">/cheng2020-anchor-3-e49be189.pth.tar&#39;</span><span class="p">,</span>
+            <span class="mi">4</span><span class="p">:</span> <span class="sa">f</span><span class="s1">&#39;</span><span class="si">{</span><span class="n">root_url</span><span class="si">}</span><span class="s1">/cheng2020-anchor-4-98b0b468.pth.tar&#39;</span><span class="p">,</span>
+            <span class="mi">5</span><span class="p">:</span> <span class="sa">f</span><span class="s1">&#39;</span><span class="si">{</span><span class="n">root_url</span><span class="si">}</span><span class="s1">/cheng2020-anchor-5-23852949.pth.tar&#39;</span><span class="p">,</span>
+            <span class="mi">6</span><span class="p">:</span> <span class="sa">f</span><span class="s1">&#39;</span><span class="si">{</span><span class="n">root_url</span><span class="si">}</span><span class="s1">/cheng2020-anchor-6-4c052b1a.pth.tar&#39;</span><span class="p">,</span>
+        <span class="p">},</span>
     <span class="p">},</span>
     <span class="s1">&#39;cheng2020-attn&#39;</span><span class="p">:</span> <span class="p">{</span>
         <span class="s1">&#39;mse&#39;</span><span class="p">:</span> <span class="p">{},</span>

diff --git a/_modules/compressai/models/waseda.html b/_modules/compressai/models/waseda.html
@@ -251,7 +251,15 @@
             <span class="n">ResidualBlockUpsample</span><span class="p">(</span><span class="n">N</span><span class="p">,</span> <span class="n">N</span><span class="p">,</span> <span class="mi">2</span><span class="p">),</span>
             <span class="n">ResidualBlock</span><span class="p">(</span><span class="n">N</span><span class="p">,</span> <span class="n">N</span><span class="p">),</span>
             <span class="n">subpel_conv3x3</span><span class="p">(</span><span class="n">N</span><span class="p">,</span> <span class="mi">3</span><span class="p">,</span> <span class="mi">2</span><span class="p">),</span>
-        <span class="p">)</span></div>
+        <span class="p">)</span>
+
+<div class="viewcode-block" id="Cheng2020Anchor.from_state_dict"><a class="viewcode-back" href="../../../models.html#compressai.models.Cheng2020Anchor.from_state_dict">[docs]</a>    <span class="nd">@classmethod</span>
+    <span class="k">def</span> <span class="nf">from_state_dict</span><span class="p">(</span><span class="bp">cls</span><span class="p">,</span> <span class="n">state_dict</span><span class="p">):</span>
+        <span class="sd">&quot;&quot;&quot;Return a new model instance from `state_dict`.&quot;&quot;&quot;</span>
+        <span class="n">N</span> <span class="o">=</span> <span class="n">state_dict</span><span class="p">[</span><span class="s1">&#39;g_a.0.conv1.weight&#39;</span><span class="p">]</span><span class="o">.</span><span class="n">size</span><span class="p">(</span><span class="mi">0</span><span class="p">)</span>
+        <span class="n">net</span> <span class="o">=</span> <span class="bp">cls</span><span class="p">(</span><span class="n">N</span><span class="p">)</span>
+        <span class="n">net</span><span class="o">.</span><span class="n">load_state_dict</span><span class="p">(</span><span class="n">state_dict</span><span class="p">)</span>
+        <span class="k">return</span> <span class="n">net</span></div></div>
 
 
 <div class="viewcode-block" id="Cheng2020Attention"><a class="viewcode-back" href="../../../models.html#compressai.models.Cheng2020Attention">[docs]</a><span class="k">class</span> <span class="nc">Cheng2020Attention</span><span class="p">(</span><span class="n">Cheng2020Anchor</span><span class="p">):</span>

diff --git a/zoo.html b/zoo.html
@@ -363,10 +363,6 @@ Takeuchi, Jiro Katto.</p>
 </dl>
 </dd></dl>
 
-<div class="admonition warning">
-<p class="admonition-title">Warning</p>
-<p>Pre-trained weights are not yet available</p>
-</div>
 </div>
 <div class="section" id="cheng2020-attn">
 <h3><a class="toc-backref" href="#id23">cheng2020_attn</a><a class="headerlink" href="#cheng2020-attn" title="Permalink to this headline">¶</a></h3>
@@ -470,6 +466,8 @@ Takeuchi, Jiro Katto.</p>
 <div class="section" id="all-models">
 <h3><a class="toc-backref" href="#id25">all models</a><a class="headerlink" href="#all-models" title="Permalink to this headline">¶</a></h3>
 <img alt="_images/compressai.png" src="_images/compressai.png" />
+<img alt="_images/compressai-clic2020-mobile.png" src="_images/compressai-clic2020-mobile.png" />
+<img alt="_images/compressai-clic2020-pro.png" src="_images/compressai-clic2020-pro.png" />
 </div>
 <div class="section" id="id12">
 <h3><a class="toc-backref" href="#id26">bmshj2018 factorized</a><a class="headerlink" href="#id12" title="Permalink to this headline">¶</a></h3>

diff --git a/genindex.html b/genindex.html
@@ -269,9 +269,11 @@
       </ul></li>
   </ul></td>
   <td style="width: 33%; vertical-align: top;"><ul>
-      <li><a href="models.html#compressai.models.FactorizedPrior.from_state_dict">from_state_dict() (compressai.models.FactorizedPrior class method)</a>
+      <li><a href="models.html#compressai.models.Cheng2020Anchor.from_state_dict">from_state_dict() (compressai.models.Cheng2020Anchor class method)</a>
 
       <ul>
+        <li><a href="models.html#compressai.models.FactorizedPrior.from_state_dict">(compressai.models.FactorizedPrior class method)</a>
+</li>
         <li><a href="models.html#compressai.models.JointAutoregressiveHierarchicalPriors.from_state_dict">(compressai.models.JointAutoregressiveHierarchicalPriors class method)</a>
 </li>
         <li><a href="models.html#compressai.models.ScaleHyperprior.from_state_dict">(compressai.models.ScaleHyperprior class method)</a>

diff --git a/models.html b/models.html
@@ -532,6 +532,12 @@ convolutions for up-sampling.</p>
 <dd class="field-odd"><p><strong>N</strong> (<em>int</em>) – Number of channels</p>
 </dd>
 </dl>
+<dl class="py method">
+<dt id="compressai.models.Cheng2020Anchor.from_state_dict">
+<em class="property">classmethod </em><code class="sig-name descname">from_state_dict</code><span class="sig-paren">(</span><em class="sig-param"><span class="n">state_dict</span></em><span class="sig-paren">)</span><a class="reference internal" href="_modules/compressai/models/waseda.html#Cheng2020Anchor.from_state_dict"><span class="viewcode-link">[source]</span></a><a class="headerlink" href="#compressai.models.Cheng2020Anchor.from_state_dict" title="Permalink to this definition">¶</a></dt>
+<dd><p>Return a new model instance from <cite>state_dict</cite>.</p>
+</dd></dl>
+
 </dd></dl>
 
 </div>
